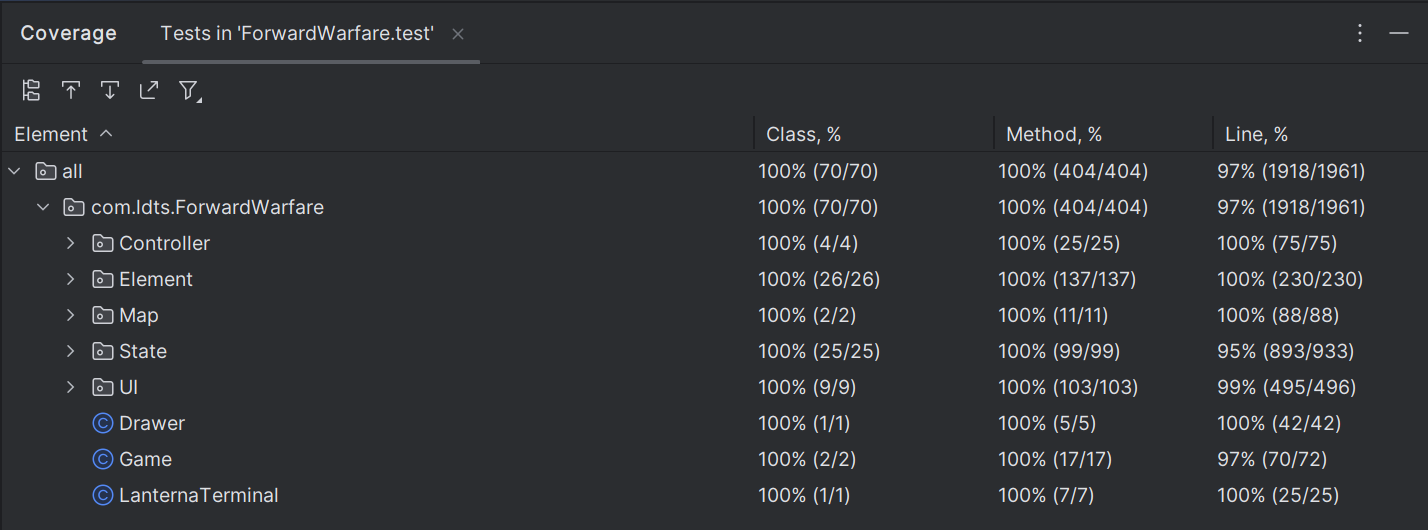
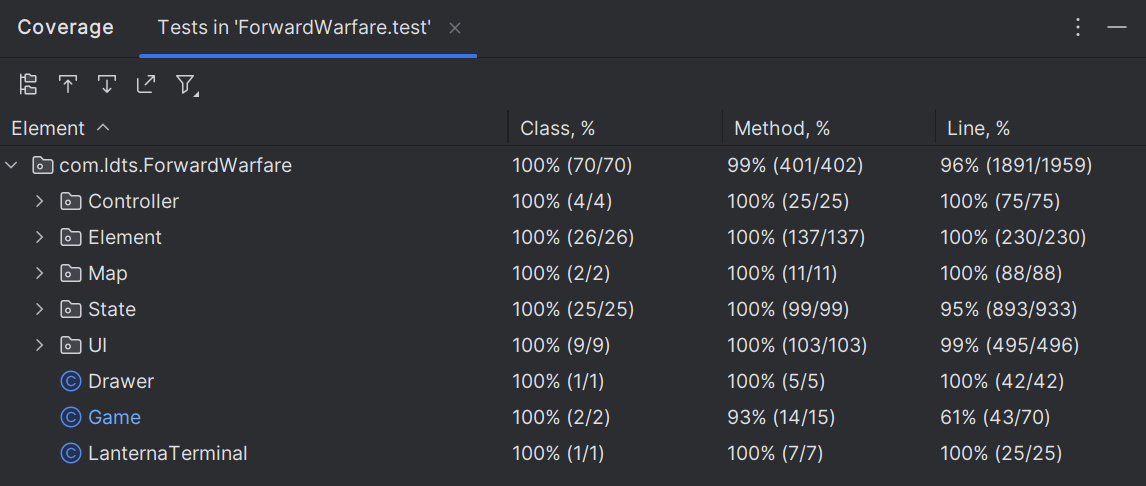
Remove tests with potential issues

diff --git a/src/main/java/com/ldts/ForwardWarfare/Game.java b/src/main/java/com/ldts/ForwardWarfare/Game.java
@@ -166,11 +166,11 @@ public class Game {
         return uiState;
     }
 
-    public void setColor1(TextColor color1) {
+    /*public void setColor1(TextColor color1) {
         this.color1 = color1;
     }
 
     public void setColor2(TextColor color2) {
         this.color2 = color2;
-    }
+    }*/
 }
